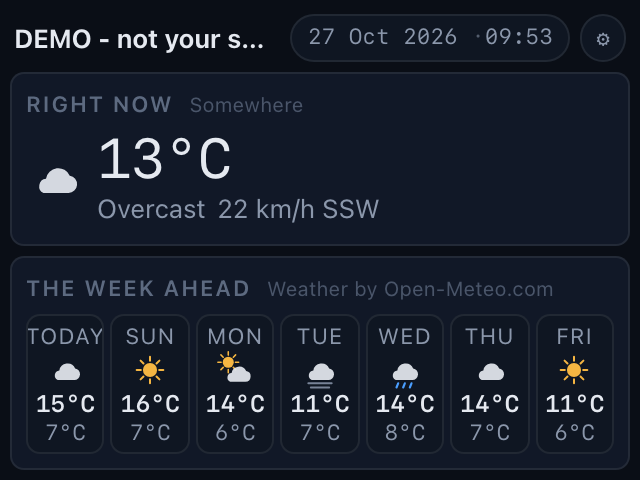
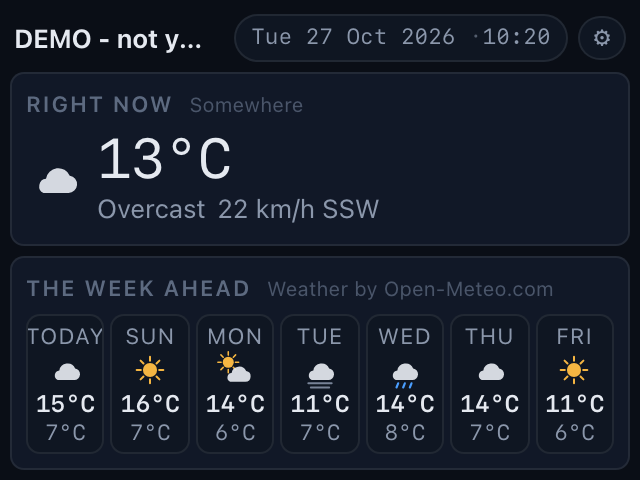
The header keeps the station identifier, the weekday, and a cog you can hit.
Three things, all of them from looking at the header properly:

- The datalogger's model ("WLan-WW (WiFi & LAN)") comes off the top of
  the screen.  It is worth knowing, and it is in the system panel
  where there is room for it, but the serial is what identifies the
  station and the space is better spent on the date.
- The day of the week comes back on every screen.  The last release
  dropped it under 1000px to make room for the date; with the
  datalogger's model gone there is room again.
- The cog opens the settings page and was 23px - a poor thing to ask a
  finger to hit.  The picture is a little bigger and the target is
  bigger than the picture, so the thing you touch is 41x34px on the Pi
  panel.  The header grows by 4px there and not at all on a bigger
  screen.

The routes stay unauthenticated on purpose - the dashboard is an
appliance on a private network and everything it holds is already in
config.json on that Pi.  The README now says so, and says what to do
if the network is not as private as that.

345 tests (was 342).

Changed region(s): [[0.2812, 0.0312, 0.7188, 0.125], [0.75, 0.0625, 0.9688, 0.0938], [0.4062, 0.125, 0.4688, 0.1562]]

diff --git a/static/index.html b/static/index.html
@@ -53,8 +53,13 @@ h1 .sub{color:var(--dim);font-weight:400;font-size:var(--fsl);margin-left:.5em}
 .dot{width:.6em;height:.6em;border-radius:50%;background:var(--dim);flex:none}
 .dot.on{background:var(--bat);box-shadow:0 0 0 .25em rgba(52,211,153,.16)}
 .dot.off{background:var(--alarm);box-shadow:0 0 0 .25em rgba(248,113,113,.16)}
+/* The cog is small on purpose - there is not much room for it - but it
+   has to be easy to hit on a touch screen, so the picture is a little
+   bigger and the target is bigger still than the picture. */
 .gear{background:var(--panel2);border:1px solid var(--line);border-radius:999px;color:var(--muted);
-      padding:.3em .65em;font-size:var(--fsl);text-decoration:none;white-space:nowrap}
+      padding:.2em .5em;font-size:calc(var(--fsl) * 1.25);line-height:1;
+      text-decoration:none;white-space:nowrap;position:relative}
+.gear::after{content:"";position:absolute;inset:-.55em -.4em;border-radius:999px}
 .gear:hover{color:var(--text);border-color:var(--muted)}
 
 /* The clock carries the date as well as the time.  The top of the
@@ -63,15 +68,8 @@ h1 .sub{color:var(--dim);font-weight:400;font-size:var(--fsl);margin-left:.5em}
 #clockPill{gap:0}
 #clockDate::after{content:" · ";opacity:.55}
 #clockWd::after,#clockDm::after{content:" "}
-/* A small screen has not got room for the weekday as well, and the
-   plant details are the first thing to go when the header runs out
-   of space - the name is what matters. */
-@media(max-width:1000px),(max-height:560px){
-  #clockWd{display:none}
-  /* The plant details are the least important thing in the header, so
-     they are the first to give up a little room. */
-  h1 .sub{font-size:calc(var(--fsl) * .92)}
-}
+/* A small screen has not got room for the plant details, and the name
+   is what matters. */
 @media(max-width:640px),(max-height:400px){
   h1 .sub{display:none}
 }
@@ -950,7 +948,10 @@ function render(s){
   if (s.settings && s.settings.display){ CFG = s.settings; applyDisplay(); }
 
   $("plantName").textContent = M.plant_name || "FoxESS";
-  $("plantMeta").textContent = [M.inverter_sn, M.datalogger].filter(Boolean).join("  ·  ");
+  // The header carries the station identifier.  The datalogger's model
+  // ("WLan-WW (WiFi & LAN)") is not much use up here - it is in the
+  // system panel - and the space is better spent on the date.
+  $("plantMeta").textContent = M.inverter_sn || "";
   if(s.build && !$("gear").dataset.build){
     $("gear").dataset.build = s.build;
     $("gear").title = "Settings \u00b7 build " + s.build;

diff --git a/tests/test_slides_octopus.py b/tests/test_slides_octopus.py
@@ -150,13 +150,29 @@ class TestSlideTransition(unittest.TestCase):
         self.assertIn('$("clockDm").textContent', self.index)
         self.assertIn('$("clockYr").textContent', self.index)
 
-    def test_a_small_screen_drops_the_weekday_before_the_plant_name(self):
-        """The header is one line, so something has to give.  The weekday
-        goes first, and the plant details go before the plant name."""
-        self.assertIn("@media(max-width:1000px),(max-height:560px){\n  #clockWd{display:none}",
-                      self.index)
+    def test_the_weekday_is_always_shown(self):
+        """The header has the room now that the datalogger's model is
+        gone, so the day of the week is on every screen."""
+        self.assertNotIn("#clockWd{display:none}", self.index)
+
+    def test_the_header_keeps_the_station_identifier(self):
+        """The datalogger's model ("WLan-WW (WiFi & LAN)") is in the
+        system panel.  The header carries the serial, which is what
+        identifies the station."""
+        self.assertIn('$("plantMeta").textContent = M.inverter_sn || "";', self.index)
+        self.assertNotIn("M.datalogger].filter(Boolean)", self.index)
+
+    def test_a_small_screen_drops_the_plant_details_before_the_name(self):
+        """The header is one line, so something has to give.  The plant
+        details go before the plant name."""
         self.assertIn("@media(max-width:640px),(max-height:400px){\n  h1 .sub{display:none}",
                       self.index)
+
+    def test_the_cog_is_big_enough_to_hit(self):
+        """It has to be easy to hit on a touch screen, so the picture is
+        a little bigger and the target is bigger than the picture."""
+        self.assertIn("font-size:calc(var(--fsl) * 1.25)", self.index)
+        self.assertIn('.gear::after{content:"";position:absolute;inset:-.55em -.4em', self.index)
 
 
 class TestSlideState(unittest.TestCase):

diff --git a/foxess/config.py b/foxess/config.py
@@ -29,7 +29,7 @@ from typing import Any
 KEEP = "__KEEP__"
 
 #: Build stamp, so it is obvious at a glance which version is running.
-BUILD = "2026-10-26.11"
+BUILD = "2026-10-27.1"
 
 #: What the API returns in place of a secret.
 MASK = "********"

diff --git a/README.md b/README.md
@@ -229,12 +229,21 @@ part of the dashboard that stays put while everything below it changes.
 The clock shows the time and the date together:
 
 ```
-Your plant  1B2C3D4E5F60 · WLAN-WW (WiFi & LAN)   [LIVE] [0.2s] [Tue 27 Oct 2026 · 09:44] [⚙]
+Your plant  1B2C3D4E5F60   [LIVE] [0.2s] [Tue 27 Oct 2026 · 09:44] [⚙]
 ```
 
-The header is one line, so on a small screen something has to give. The
-weekday goes first, and on the smallest screens the plant details go before
-the plant name — the name is what matters.
+The header carries the station identifier — the plant's name and the
+inverter's serial. The datalogger's model (`WLan-WW (WiFi & LAN)`) is
+not much use up there; it is in the system panel, where there is room
+for it.
+
+The header is one line, so on the smallest screens the plant details
+go before the plant name — the name is what matters.
+
+The **cog** at the end is the way to the settings page. It is small on
+purpose, but it has to be easy to hit on a touch screen, so the
+picture is a little bigger than it was and the target is bigger than
+the picture.
 
 ## Weather and the solar forecast
 
@@ -685,6 +694,21 @@ logged unless `FOXESS_DEBUG=1` is set. Genuine bugs still print a traceback.
 | `/api/weather/test` | POST = try the weather settings and say what came back |
 | `/events` | Server-Sent Events stream of live updates |
 | `/healthz` | Liveness probe |
+
+**There is no authentication, on purpose.** The dashboard is an appliance
+on a private network — a Raspberry Pi on the home LAN — and everything
+it holds is already in `config.json` on that Pi, readable by anyone who
+can reach the Pi anyway. Putting a password on the routes would mean a
+password on the kiosk, on the phone that opens the same page, and on the
+ESP32, for no gain. The one thing to be careful of is the network: the
+server binds `0.0.0.0` by default, so it is reachable by anything on
+the LAN, and `config.json` holds the FoxESS password, the Open API key
+and the Octopus key in plain text.
+
+Set `server.host` to `127.0.0.1` in `config.json` if the dashboard
+should only be reachable from the Pi itself — a reverse proxy in front
+of it, or a tunnel from outside the house, is then the way to reach it
+from elsewhere.
 
 ---
 

diff --git a/docs/RELEASE-2026-10-27.1.md b/docs/RELEASE-2026-10-27.1.md
@@ -1,0 +1,57 @@
+# Release 2026-10-27.1 — the header, tidied
+
+Three small things in the header, all of them because it was looked at
+properly: the datalogger's model text goes, the day of the week comes
+back, and the cog gets big enough to hit.
+
+## The datalogger's model text goes
+
+The header said:
+
+```
+Your plant  1B2C3D4E5F60   [LIVE] [0.2s] [Tue 27 Oct 2026 · 10:18] [⚙]
+```
+
+`WLan-WW (WiFi & LAN)` is the model of the data logger. It is worth
+knowing — it is in the system panel, where there is room for it — but it
+is not worth the space at the top of the screen, and the serial is what
+identifies the station anyway. The header now says:
+
+```
+Your plant  1B2C3D4E5F60   [LIVE] [0.2s] [Tue 27 Oct 2026 · 10:18] [⚙]
+```
+
+## The day of the week comes back
+
+The last release dropped the weekday on screens under 1000 px, to make
+room for the date. With the datalogger's model text gone there is room
+for it again, so the weekday is on every screen:
+
+| screen | the header says |
+|---|---|
+| every size | `Tue 27 Oct 2026 · 10:18` |
+
+The plant details still go before the plant name on the smallest
+screens, where there is no room for anything else.
+
+## The cog
+
+The cog at the end of the header opens the settings page, and it was
+small — 23 px on the Pi screen, which is a poor thing to ask a finger
+to hit. The picture is a little bigger now, and the target is bigger
+than the picture:
+
+```css
+.gear::after{content:"";position:absolute;inset:-.55em;border-radius:999px}
+```
+
+On the 800×480 panel the cog is 28×25 px and the thing you actually
+touch is 44×41 px. The header grows by 4 px at that size, and not at
+all on a bigger screen.
+
+## Testing
+
+- The header was measured at six sizes with the real plant name: the
+  header fits with no truncation anywhere.
+- The layout check: all 48 viewports fit on one screen, no scrolling.
+- 345 tests (was 342).
